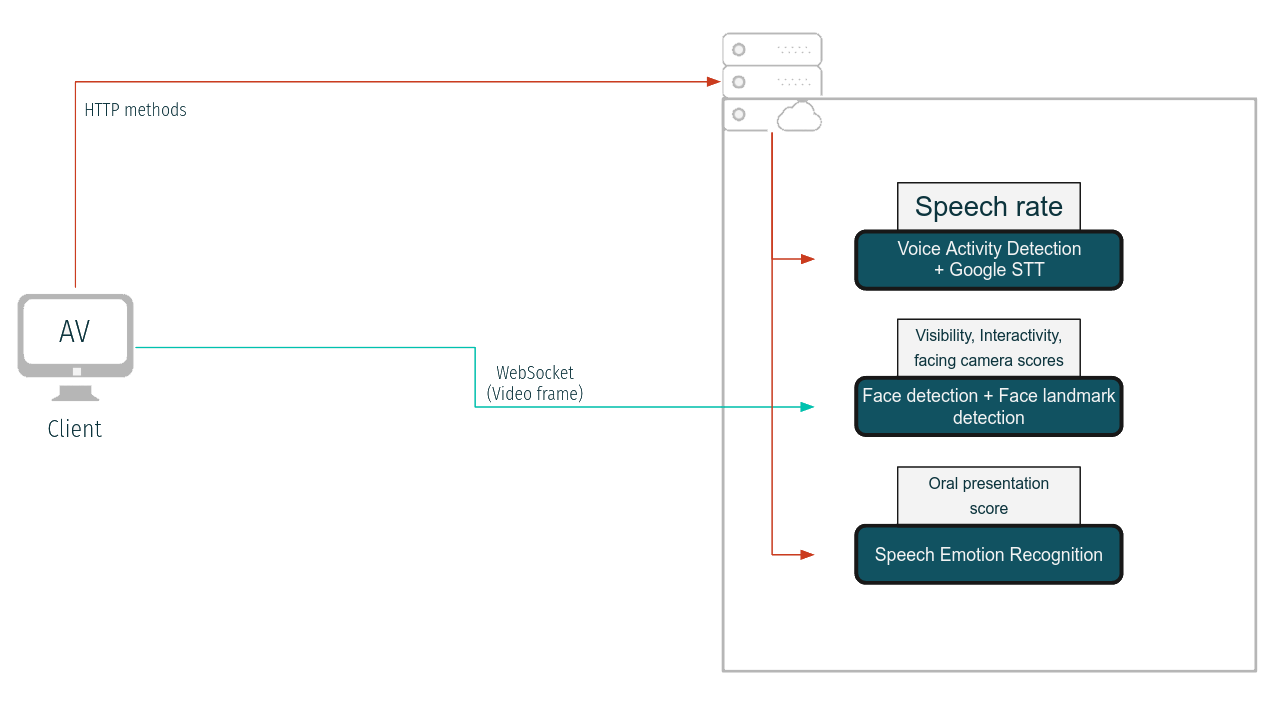
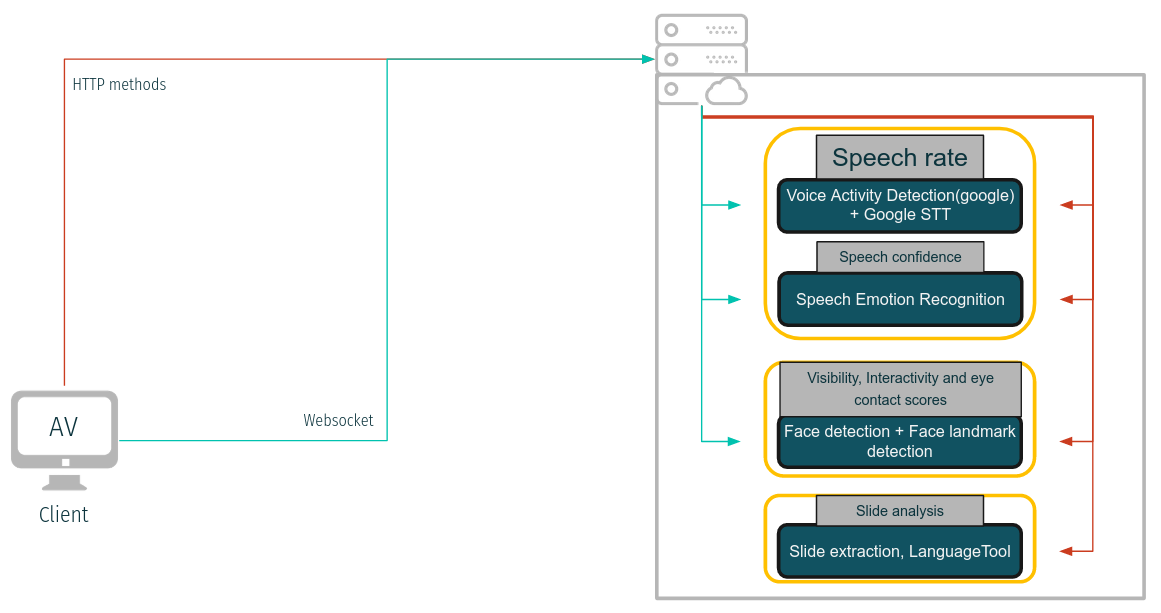
update documentation

Changed region(s): [[0.0, 0.0, 0.9922, 0.9918], [0.031, 0.8369, 0.062, 0.8679]]

diff --git a/README.md b/README.md
@@ -14,7 +14,7 @@ Communication is the most important skill for improving our career. We all had h
 
 Supporting repositories,
 
-- Back-end -> [mock-buddy-server](https://github.com/Karthick47v2/mock-buddy-server)
+- Back-end (Microservices)-> [mock-buddy-video-server](https://github.com/Karthick47v2/mock-buddy-video-server), [mock-buddy-audio-server](https://github.com/Karthick47v2/mock-buddy-audio-server), [mock-buddy-slide-server](https://github.com/Karthick47v2/mock-buddy-slide-server)
 - Face landmark detector training -> [face-landmark-detector](https://github.com/Karthick47v2/face-landmark-detector)
 - Speech emotion classifier training -> [speech-emotion-classifier](https://github.com/Karthick47v2/speech-emotion-classifier)
 
@@ -34,7 +34,7 @@ Screenshots:
 
 ## Install
 
-```sh
+```
 npm install --force
 ```
 
@@ -42,7 +42,7 @@ npm install --force
 
 \*Tested on Firefox and Google Chrome
 
-```sh
+```
 npm start
 ```
 
